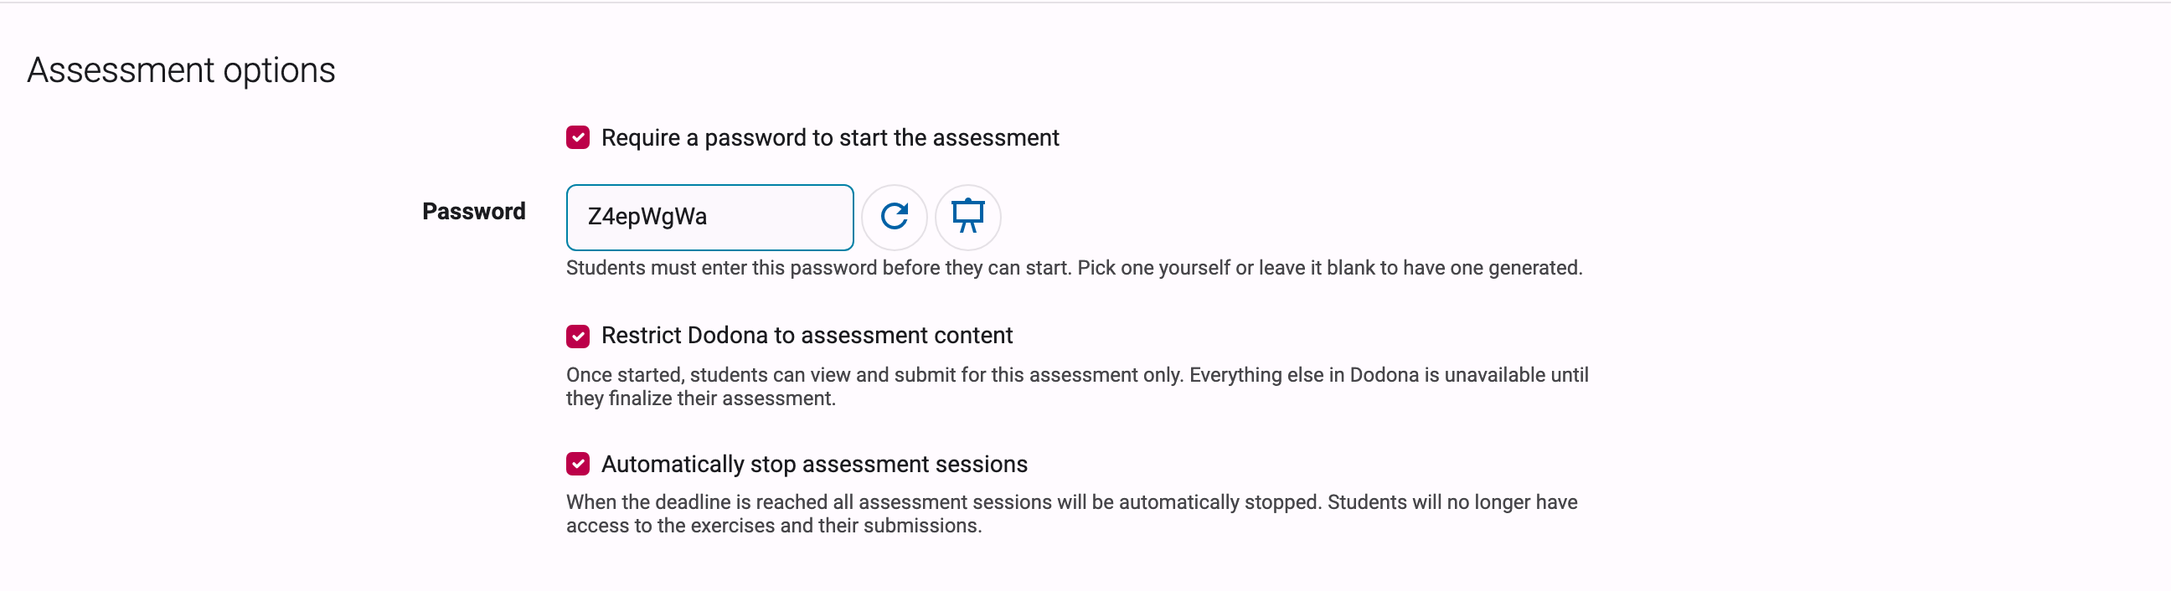
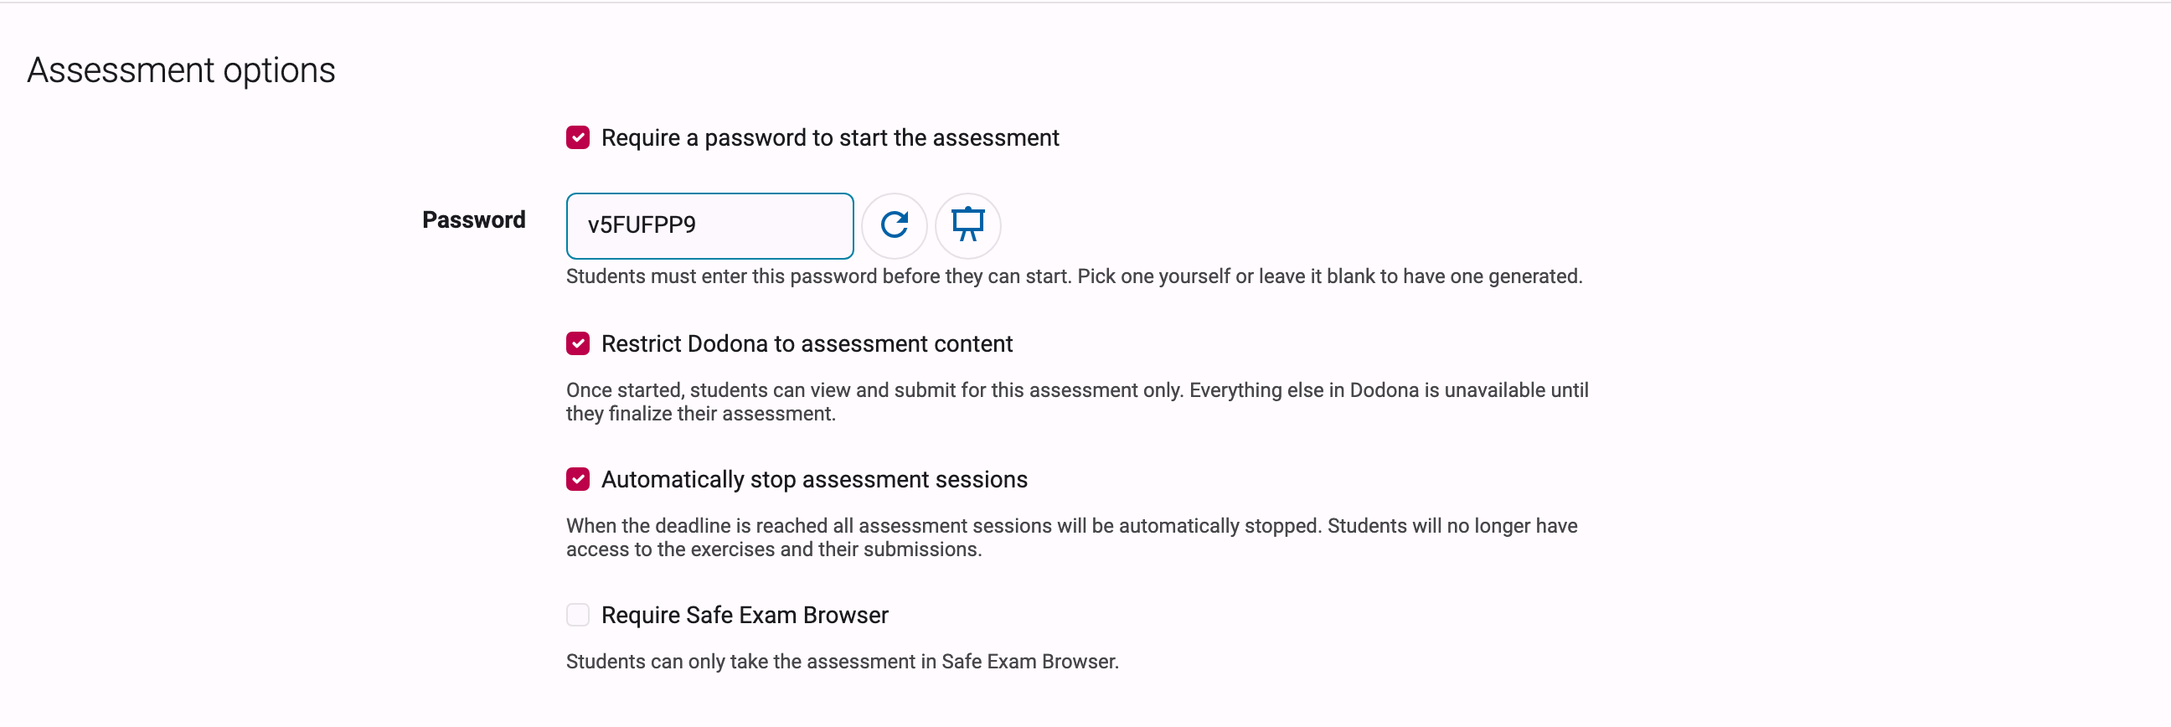
Document Safe Exam Browser in the assessments guide

diff --git a/nl/guides/teachers/assessments/index.md b/nl/guides/teachers/assessments/index.md
@@ -17,7 +17,7 @@ Wil je Dodona gebruiken voor een toets of examen op punten, dan kan je een reeks
 Deze handleiding overloopt het volledige traject: de reeks instellen, wat je studenten zien, sessies opvolgen en stoppen tijdens de toets, de resultaten achteraf vrijgeven, en wat er precies gelogd wordt.
 
 ::: tip Belangrijk
-Een toetsreeks regelt de toegang *binnen* Dodona: ze vergrendelt de computer van de student niet, neemt het scherm niet op en blokkeert geen andere websites. Beschouw ze als één laag van een examen onder toezicht, naast toezicht in het lokaal of de examenomgeving van je school.
+Een toetsreeks regelt de toegang *binnen* Dodona: ze vergrendelt de computer van de student niet, neemt het scherm niet op en blokkeert geen andere websites. Beschouw ze als één laag van een examen onder toezicht, naast toezicht in het lokaal of de examenomgeving van je school. Wil je ook de computer van de student vergrendelen, dan kan je [Safe Exam Browser](#safe-exam-browser) verplichten (bèta).
 :::
 
 ## Een toetsreeks aanmaken
@@ -36,7 +36,9 @@ Als je het toetstype selecteert, verschijnt er een extra sectie `Toetsopties` op
 
 * `Toetssessies automatisch stoppen`: wanneer de deadline bereikt is, worden alle toetssessies automatisch gestopt. Studenten hebben dan geen toegang meer tot de oefeningen en hun oplossingen. Deze optie vereist dat de reeks een deadline heeft. Sessies die zo gestopt worden, tonen `Systeem` als uitvoerder in de tijdslijn van de toets.
 
-![Sectie toetsopties van het reeksformulier, met een gegenereerd wachtwoord en de vinkjes bij "Beperk Dodona" en "automatisch stoppen" aangevinkt](assessment-options-nl.png)
+* `Verplicht Safe Exam Browser` (bèta): studenten kunnen de toets enkel in Safe Exam Browser afleggen, dat hun computer vergrendelt tijdens de toets. Zie [Safe Exam Browser](#safe-exam-browser) hieronder.
+
+![Sectie toetsopties van het reeksformulier, met een gegenereerd wachtwoord, de vinkjes bij "Beperk Dodona" en "automatisch stoppen" aangevinkt, en het vinkje bij "Verplicht Safe Exam Browser" niet aangevinkt](assessment-options-nl.png)
 
 Alle andere eigenschappen van het formulier (naam, deadline, beschrijving, zichtbaarheid, …) werken zoals bij elke reeks en worden beschreven in de referentie over [reeksinstellingen](../series-settings/). De zichtbaarheidsinstellingen combineren mooi met een toets: met `Zichtbaar voor studenten na starttijd` verschijnt de reeks bijvoorbeeld pas op het moment dat het examen begint. Merk op dat zelfs een zichtbare toetsreeks haar oefeningen nooit toont aan studenten zolang ze hun sessie niet gestart hebben.
 
@@ -72,7 +74,7 @@ Tijdens het examen is het toetsoverzicht je controlekamer. Je bereikt het via de
 
 ![Toetsoverzicht met het statuspaneel, de tellers voor nog niet gestart/bezig/gestopt, de tijdslijn-callout en de sessietabel met gestart- en gestoptijdstippen per student](assessment-overview-nl.png)
 
-Bovenaan vind je het statuspaneel van de toets met de huidige fase (`Nog niet gestart`, `Bezig`, `Gestopt, klaar om vrij te geven` of `Vrijgegeven`) en de actieve instellingen: `Dodona-toegang` (`Beperkt` of `Onbeperkt`), `Wachtwoord` (`Vereist`, met de knop `Tonen`, of `Niet vereist`) en `Automatisch stoppen` (`Ingeschakeld` of `Uitgeschakeld`). Daarnaast tonen drie tellers hoeveel studenten `Nog niet gestart`, `Bezig` en `Gestopt` zijn; klik op een teller om de tabel eronder te filteren.
+Bovenaan vind je het statuspaneel van de toets met de huidige fase (`Nog niet gestart`, `Bezig`, `Gestopt, klaar om vrij te geven` of `Vrijgegeven`) en de actieve instellingen: `Dodona-toegang` (`Beperkt` of `Onbeperkt`), `Wachtwoord` (`Vereist`, met de knop `Tonen`, of `Niet vereist`) en `Automatisch stoppen` (`Ingeschakeld` of `Uitgeschakeld`). Een toets die Safe Exam Browser vereist, toont ook een rij `Safe Exam Browser`, met een knop `Tonen` voor het [afsluitwachtwoord](#instellen). Daarnaast tonen drie tellers hoeveel studenten `Nog niet gestart`, `Bezig` en `Gestopt` zijn; klik op een teller om de tabel eronder te filteren.
 
 De tabel toont elke student van de cursus met de tijdstippen `Gestart op` en `Gestopt op`. Je kan zoeken op naam, filteren op `Gebruikerlabels`, `Gestart` en `Gestopt`, en de kolommen sorteren. Per rij kan je:
 
@@ -116,6 +118,69 @@ Je kan de tijdslijn filteren op `Gebruiker`, `Actie`, `Uitvoerder`, `IP adres` e
 
 ![Tijdslijn van de toets met de filters Gebruiker/Actie/Uitvoerder/IP adres/Browser, de knop Exporteer, en een mix van gebeurtenissen inclusief een rij met Systeem als uitvoerder](assessment-timeline-nl.png)
 
+## Safe Exam Browser
+
+::: info Bèta
+Ondersteuning voor Safe Exam Browser is in bèta: de optie verschijnt enkel voor lesgevers die aan de bèta deelnemen. Wil je ze uitproberen? Contacteer ons via [support@dodona.be](mailto:support@dodona.be).
+:::
+
+[Safe Exam Browser](https://safeexambrowser.org) is een gratis browser die de computer van de student vergrendelt tijdens een examen: studenten kunnen niet naar andere programma's wisselen, en ze kunnen enkel Dodona en de websites die jij toelaat openen. Als een toets Safe Exam Browser vereist, start Dodona het voor je studenten en meldt het hen aan, zodat je geen `.seb`-bestand of link hoeft te verdelen.
+
+### Instellen
+
+Vink `Verplicht Safe Exam Browser` aan in de sectie `Toetsopties` van het reeksformulier. Vink ook [`Beperk Dodona tot de inhoud van de toets`](#een-toetsreeks-aanmaken) aan, want Safe Exam Browser laat heel Dodona toe.
+
+![Toetsopties met Verplicht Safe Exam Browser aangevinkt, het afsluitwachtwoord en een opgeslagen configuratiebestand](assessment-safe-exam-browser-nl.png)
+
+Met `Verplicht Safe Exam Browser` aangevinkt verschijnen er twee extra velden:
+
+* `Afsluitwachtwoord`: sluit Safe Exam Browser af wanneer een student het moet verlaten zonder de toets af te ronden, bijvoorbeeld omdat die vastzit. Kies zelf een wachtwoord, of behoud het gegenereerde; je kan het later wijzigen op het reeksformulier. Houd het weg van je studenten: daarmee kunnen ze Safe Exam Browser midden in de toets verlaten.
+* `Configuratiebestand`: optioneel, zie [je eigen configuratiebestand](#je-eigen-configuratiebestand) hieronder.
+
+Vink je `Verplicht Safe Exam Browser` later uit, dan bewaart Dodona het afsluitwachtwoord en het configuratiebestand voor wanneer je het opnieuw aanvinkt. Een kopie van de reeks vereist nog steeds Safe Exam Browser, met een nieuw afsluitwachtwoord maar zonder je configuratiebestand: upload het opnieuw in de kopie.
+
+::: warning Het afsluitwachtwoord wijzigen tijdens een toets
+Een nieuw afsluitwachtwoord geldt pas voor studenten die Safe Exam Browser daarna starten: studenten die er al in zitten, hebben nog het oude nodig. Wijzig het dus voor de toets begint, of noteer eerst het oude wachtwoord. Zonder dat wachtwoord kan een student van wie Safe Exam Browser Dodona niet meer bereikt, bijvoorbeeld omdat het netwerk uitvalt, er enkel uit door de computer opnieuw op te starten. Zolang Dodona bereikbaar is, werkt het stoppen van de sessie nog: binnen ongeveer een minuut toont Safe Exam Browser een knop `Safe Exam Browser afsluiten`.
+:::
+
+### Je eigen configuratiebestand
+
+Upload je eigen configuratiebestand wanneer je andere instellingen voor Safe Exam Browser wil dan de standaardinstellingen, bijvoorbeeld om een extra website toe te laten zoals de documentatie van een programmeertaal. Zonder bestand gebruikt Safe Exam Browser zijn standaardinstellingen en laat het enkel Dodona toe. Maak het bestand met de configuratietool van Safe Exam Browser, en let op deze punten:
+
+* Bewaar het om een examen te starten, zonder instellingenwachtwoord: Dodona kan een versleuteld bestand niet lezen.
+* Zet de URL-filter aan. Safe Exam Browser zet die standaard uit, en Dodona behoudt je keuze: met de filter uit kunnen studenten elke website openen.
+* Zet geen wachtwoorden of andere geheimen in het bestand: elke student die de toets start, krijgt het.
+
+Dodona behoudt je instellingen en stelt enkel in wat de toets nodig heeft: de startpagina, de afsluitpagina en het afsluitwachtwoord, en regels in de URL-filter die `dodona.be` en `sandbox.dodona.be` toelaten. Een afsluitwachtwoord of startpagina in je eigen bestand wordt dus vervangen.
+
+Dodona weigert een bestand, en behoudt het vorige, als het bestand:
+
+* versleuteld is met een instellingenwachtwoord;
+* groter is dan 1 MB;
+* geen `.seb`-bestand is dat Dodona kan lezen;
+* een blokkeerregel in de URL-filter heeft die Dodona kan blokkeren, zoals `*` of `dodona.be`. Een blokkeerregel met een reguliere expressie wordt altijd geweigerd, omdat Dodona die niet kan controleren: gebruik een regel zonder reguliere expressie, zoals `facebook.com`.
+
+De melding onder het veld noemt het geweigerde bestand en de reden. Om je bestand te verwijderen, klik je op de prullenbak naast het veld en bewaar je het formulier.
+
+### Wat je studenten nodig hebben en zien
+
+Studenten installeren [Safe Exam Browser](https://safeexambrowser.org/download_en.html) voor de toets, op het toestel waarop ze de toets maken. Safe Exam Browser bestaat voor Windows, macOS en iPad; er is geen versie voor Linux of Chromebooks. Voor de toets start, vertelt `Hoe deze toets werkt` hen dat de toets in Safe Exam Browser loopt, met een link om het te downloaden.
+
+![Reekskaart voor de toets gestart is, met de melding over Safe Exam Browser in "Hoe deze toets werkt" en de knop Start toets](assessment-start-safe-exam-browser-nl.png)
+
+De toets verloopt daarna zoals beschreven in [wat je studenten zien](#wat-je-studenten-zien), met deze verschillen:
+
+* Studenten vullen het toetswachtwoord in (indien vereist) in hun gewone browser. Na `Start toets` gaat Safe Exam Browser open, controleert het de instellingen en meldt het hen aan, en de toets opent vanzelf.
+* Gaat Safe Exam Browser niet open, bijvoorbeeld omdat het nog niet geïnstalleerd is, dan klikt de student op `Start toets opnieuw`. De link die Safe Exam Browser opent, werkt maar 5 minuten, dus een student die Safe Exam Browser intussen installeert, gebruikt ook die knop.
+* `Toets afronden` sluit Safe Exam Browser vanzelf af.
+* Wanneer jij een sessie stopt, of Dodona ze stopt op de deadline, toont Safe Exam Browser dat de toets afgelopen is, met een knop `Safe Exam Browser afsluiten`.
+
+Zit een student vast in Safe Exam Browser, klik dan op de afsluitknop en geef het afsluitwachtwoord in, dat je in het [statuspaneel](#de-toets-opvolgen) vindt. Sluit Safe Exam Browser af tijdens de toets, dan blijft de sessie van de student bezig en kan die nog niet opnieuw starten. Herstel de toegang zoals bij een [dichtgeklikte browser](#wat-je-studenten-zien): `Stop sessie` en daarna `Heropen sessie`.
+
+::: tip Probeer het uit voor het examen
+Cursusbeheerders kunnen een toets niet zelf starten. Probeer het volledige verloop voor het examen uit met een account dat student is in de cursus, op het soort toestel dat je studenten zullen gebruiken.
+:::
+
 ## Privacyoverwegingen
 
 Vragen die je school (of je studenten) kunnen stellen over toetsen:
@@ -123,6 +188,6 @@ Vragen die je school (of je studenten) kunnen stellen over toetsen:
 * **Wat wordt er gelogd?** De gebeurtenissen hierboven, met tijdstippen, het IP-adres van de student en browserinformatie. Het loggen start wanneer de student de toets start en is beperkt tot acties die met de toets te maken hebben.
 * **Worden studenten geïnformeerd?** Ja. Het startscherm vertelt studenten expliciet dat hun acties geregistreerd worden, wat daarbij hoort, en dat die gegevens uitsluitend gebruikt worden om een correct en eerlijk verloop van de toets te garanderen. Een student start de toets pas na het zien van deze melding.
 * **Wie kan de log inkijken?** Enkel de cursusbeheerders van de cursus (en Dodona-medewerkers). Studenten kunnen de tijdslijn van de toets niet zien.
-* **Is dit proctoringsoftware?** Nee. Dodona neemt geen schermen, webcams of toetsaanslagen op, en kan niet verhinderen dat studenten andere programma's of websites openen. Het IP-adres en de browserinformatie in de log kunnen helpen om afwijkingen op te sporen (zoals een sessie die plots verdergaat vanaf een ander netwerk), maar fysiek toezicht blijft jouw verantwoordelijkheid.
+* **Is dit proctoringsoftware?** Nee. Dodona neemt geen schermen, webcams of toetsaanslagen op. Zonder [Safe Exam Browser](#safe-exam-browser) kan Dodona niet verhinderen dat studenten andere programma's of websites openen. Het IP-adres en de browserinformatie in de log kunnen helpen om afwijkingen op te sporen (zoals een sessie die plots verdergaat vanaf een ander netwerk), maar fysiek toezicht blijft jouw verantwoordelijkheid.
 
 Heb je vragen over het afnemen van een examen met Dodona waar deze handleiding geen antwoord op geeft, contacteer ons dan gerust via [support@dodona.be](mailto:support@dodona.be).

diff --git a/en/guides/teachers/assessments/index.md b/en/guides/teachers/assessments/index.md
@@ -17,7 +17,7 @@ If you want to use Dodona for a graded test or exam, you can turn a series into 
 This guide walks through the full journey: setting up the series, what your students see, monitoring and stopping sessions while the assessment runs, publishing the results afterwards, and what exactly is logged.
 
 ::: tip Important
-An assessment series controls access *within* Dodona: it does not lock down the student's computer, record their screen, or block other websites. Treat it as one layer of a supervised exam, alongside supervision in the room or the exam environment your school uses.
+An assessment series controls access *within* Dodona: it does not lock down the student's computer, record their screen, or block other websites. Treat it as one layer of a supervised exam, alongside supervision in the room or the exam environment your school uses. To also lock down the student's computer, you can require [Safe Exam Browser](#safe-exam-browser) (beta).
 :::
 
 ## Creating an assessment series
@@ -36,7 +36,9 @@ When you select the assessment kind, an extra `Assessment options` section appea
 
 * `Automatically stop assessment sessions`: when the deadline is reached, all assessment sessions are automatically stopped. Students then no longer have access to the exercises and their submissions. This option requires the series to have a deadline. Sessions stopped this way show `System` as the actor in the assessment timeline.
 
-![Assessment options section of the series form, with a generated password, and the restrict-Dodona and auto-stop checkboxes checked](assessment-options-en.png)
+* `Require Safe Exam Browser` (beta): students can only take the assessment in Safe Exam Browser, which locks down their computer during the assessment. See [Safe Exam Browser](#safe-exam-browser) below.
+
+![Assessment options section of the series form, with a generated password, the restrict-Dodona and auto-stop checkboxes checked, and the Require Safe Exam Browser checkbox unchecked](assessment-options-en.png)
 
 All other properties of the form (name, deadline, description, visibility, …) work as for any series and are described in the [series settings](../series-settings/) reference. The visibility settings combine nicely with an assessment: with `Visible for students after start time`, for example, the series only appears at the moment the exam starts. Note that even a visible assessment series never shows its exercises to students until they start their session.
 
@@ -72,7 +74,7 @@ During the exam, the assessment overview is your control room. You reach it via 
 
 ![Assessment overview page with the status panel, the not-yet-started/in-progress/stopped counters, the timeline callout, and the sessions table listing started and stopped times per student](assessment-overview-en.png)
 
-At the top you find the assessment status panel with the current phase (`Not yet started`, `In progress`, `Stopped, awaiting publication` or `Published`) and the effective settings: `Dodona access` (`Restricted` or `Unrestricted`), `Password` (`Required`, with the `Show` button, or `Not required`) and `Auto-stop` (`Enabled` or `Disabled`). Next to it, three counters show how many students are `Not yet started`, `In progress` and `Stopped`; clicking a counter filters the table below.
+At the top you find the assessment status panel with the current phase (`Not yet started`, `In progress`, `Stopped, awaiting publication` or `Published`) and the effective settings: `Dodona access` (`Restricted` or `Unrestricted`), `Password` (`Required`, with the `Show` button, or `Not required`) and `Auto-stop` (`Enabled` or `Disabled`). An assessment that requires Safe Exam Browser also shows a `Safe Exam Browser` row, with a `Show` button for the [quit password](#setting-it-up). Next to it, three counters show how many students are `Not yet started`, `In progress` and `Stopped`; clicking a counter filters the table below.
 
 The table lists every student in the course with their `Started at` and `Stopped at` times. You can search by name, filter on `Member labels`, `Started` and `Stopped`, and sort the columns. Per row you can:
 
@@ -116,6 +118,69 @@ You can filter the timeline by `User`, `Action`, `Actor`, `IP address` and `Brow
 
 ![Assessment timeline with User/Action/Actor/IP address/Browser filters, the Export button, and a mix of event rows including a System-actor row](assessment-timeline-en.png)
 
+## Safe Exam Browser
+
+::: info Beta
+Safe Exam Browser support is in beta: the option only appears for teachers who take part in the beta. Would you like to try it? Contact us at [support@dodona.be](mailto:support@dodona.be).
+:::
+
+[Safe Exam Browser](https://safeexambrowser.org) is a free browser that locks down the student's computer during an exam: students can't switch to other programs, and they can only open Dodona and the websites you allow. When an assessment requires Safe Exam Browser, Dodona starts it for your students and signs them in, so you don't have to hand out a `.seb` file or a link.
+
+### Setting it up
+
+Tick `Require Safe Exam Browser` in the `Assessment options` section of the series form. Also tick [`Restrict Dodona to assessment content`](#creating-an-assessment-series), because Safe Exam Browser allows all of Dodona.
+
+![Assessment options with Require Safe Exam Browser ticked, the quit password and a stored configuration file](assessment-safe-exam-browser-en.png)
+
+Ticking `Require Safe Exam Browser` adds two fields:
+
+* `Quit password`: closes Safe Exam Browser when a student has to leave it without finalizing the assessment, for example because they're stuck. Pick a password yourself, or keep the one that was generated; you can change it on the series form later. Keep it from your students: with it, they can leave Safe Exam Browser in the middle of the assessment.
+* `Configuration file`: optional, see [your own configuration file](#your-own-configuration-file) below.
+
+If you untick `Require Safe Exam Browser` later, Dodona keeps the quit password and the configuration file for when you tick it again. A copy of the series still requires Safe Exam Browser, with a new quit password but without your configuration file: upload it again in the copy.
+
+::: warning Changing the quit password during an assessment
+A new quit password only applies to students who start Safe Exam Browser afterwards: students who are already in it still need the old one. So change it before the assessment starts, or note the old password first. Without it, a student whose Safe Exam Browser can no longer reach Dodona, for example because the network is down, can only get out by restarting their computer. As long as Dodona can be reached, stopping their session still works: within about a minute, Safe Exam Browser shows a `Close Safe Exam Browser` button.
+:::
+
+### Your own configuration file
+
+Upload your own configuration file when you want other Safe Exam Browser settings than the defaults, for example to allow an extra website such as the documentation of a programming language. Without one, Safe Exam Browser uses its default settings and only allows Dodona. Create the file with Safe Exam Browser's configuration tool, and keep these points in mind:
+
+* Save it for starting an exam, without a settings password: Dodona can't read an encrypted file.
+* Turn on the URL filter. Safe Exam Browser turns it off by default, and Dodona keeps your choice: with the filter off, students can open any website.
+* Don't put passwords or other secrets in the file: every student who starts the assessment receives it.
+
+Dodona keeps your settings and only sets what the assessment needs: the start page, the quit page and the quit password, and rules in the URL filter that allow `dodona.be` and `sandbox.dodona.be`. A quit password or start page in your own file is therefore replaced.
+
+Dodona refuses a file, and keeps the previous one, when the file:
+
+* is encrypted with a settings password;
+* is larger than 1 MB;
+* is not a `.seb` file that Dodona can read;
+* has a block rule in its URL filter that could block Dodona, such as `*` or `dodona.be`. A block rule with a regular expression is always refused, because Dodona can't check it: use a rule without a regular expression, such as `facebook.com`.
+
+The message under the field names the refused file and the reason. To remove your file, click the bin next to the field and save the form.
+
+### What your students need and see
+
+Students install [Safe Exam Browser](https://safeexambrowser.org/download_en.html) before the assessment, on the device they take it on. Safe Exam Browser exists for Windows, macOS and iPad; there is no version for Linux or Chromebooks. Before the assessment starts, `How this assessment works` tells them that the assessment runs in Safe Exam Browser, with a link to download it.
+
+![Series card before the assessment has started, with the Safe Exam Browser notice in "How this assessment works" and the Start assessment button](assessment-start-safe-exam-browser-en.png)
+
+The assessment then runs as described in [what your students see](#what-your-students-see), with these differences:
+
+* Students enter the assessment password (if required) in their usual browser. After `Start assessment`, Safe Exam Browser opens, checks its settings and signs them in, and the assessment opens by itself.
+* If Safe Exam Browser doesn't open, for example because it isn't installed yet, the student clicks `Start assessment again`. The link that opens Safe Exam Browser only works for 5 minutes, so a student who installs Safe Exam Browser in the meantime also uses that button.
+* `Finalize assessment` closes Safe Exam Browser by itself.
+* When you stop a session, or Dodona stops it at the deadline, Safe Exam Browser shows that the assessment has ended, with a `Close Safe Exam Browser` button.
+
+When a student is stuck in Safe Exam Browser, click its quit button and enter the quit password, which you find in the [status panel](#monitoring-the-assessment). If Safe Exam Browser closes during the assessment, the student's session stays in progress and they can't start again yet. Restore access as for a [closed browser](#what-your-students-see): `Stop session` and then `Re-open session`.
+
+::: tip Try it before the exam
+Course administrators can't start an assessment themselves. Try the whole flow before the exam with an account that is a student in the course, on the kind of device your students will use.
+:::
+
 ## Privacy considerations
 
 Questions your school (or your students) may ask about assessments:
@@ -123,6 +188,6 @@ Questions your school (or your students) may ask about assessments:
 * **What is logged?** The events listed above, with timestamps, the student's IP address, and browser information. Logging starts when the student starts the assessment and is limited to actions related to the assessment.
 * **Are students informed?** Yes. The start screen explicitly tells students that their actions are logged, what is included, and that these data are used solely to ensure a fair and correct examination process. A student only starts the assessment after seeing this notice.
 * **Who can see the log?** Only the course administrators of the course (and Dodona staff). Students cannot see the assessment timeline.
-* **Is this proctoring software?** No. Dodona does not record screens, webcams, or keystrokes, and cannot prevent students from opening other applications or websites. The IP address and browser information in the log can help detect anomalies (such as a session continuing from a different network), but physical supervision remains your responsibility.
+* **Is this proctoring software?** No. Dodona does not record screens, webcams, or keystrokes. Without [Safe Exam Browser](#safe-exam-browser), it cannot prevent students from opening other applications or websites. The IP address and browser information in the log can help detect anomalies (such as a session continuing from a different network), but physical supervision remains your responsibility.
 
 If you have questions about running an exam with Dodona that this guide doesn't answer, feel free to contact us at [support@dodona.be](mailto:support@dodona.be).
